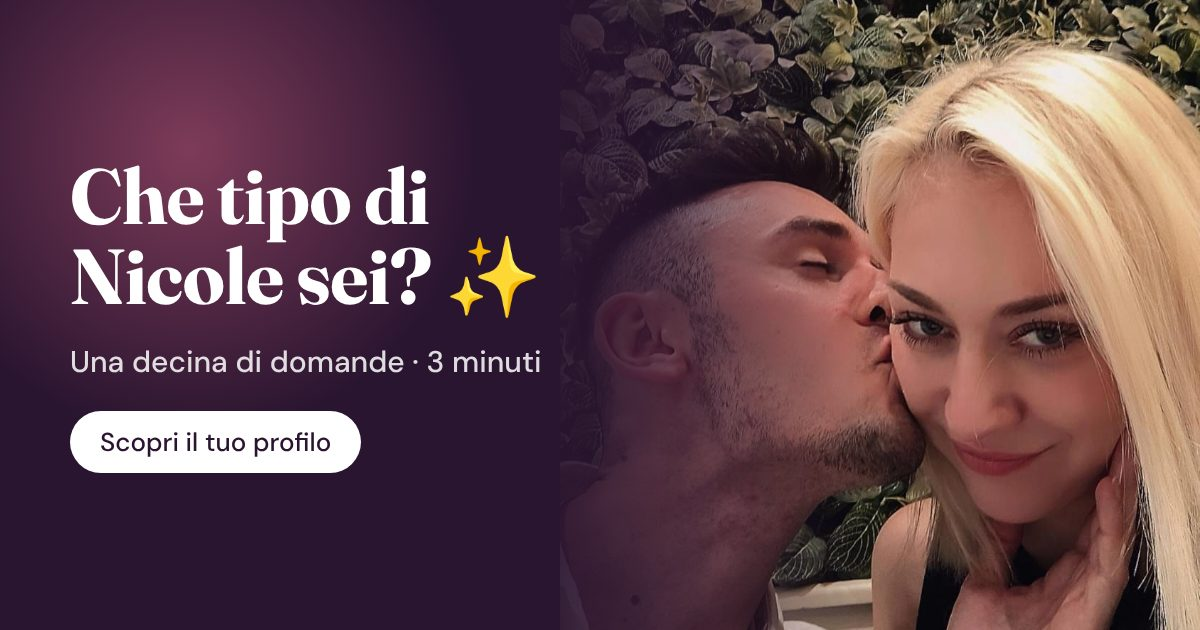
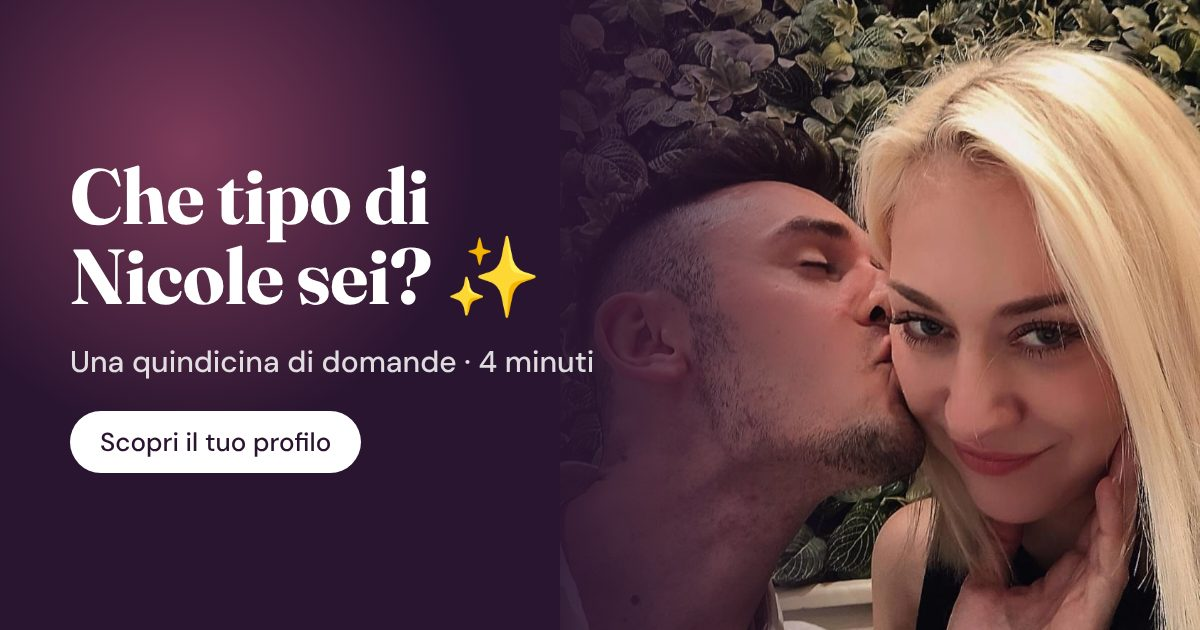
Version 2: new questions and result cards
Claude-Session: https://claude.ai/code/session_013eQ6ksMYpntbDkjgdCRouy

Changed region(s): [[0.1233, 0.5429, 0.4933, 0.6032]]

diff --git a/index.html b/index.html
@@ -5,11 +5,11 @@
 <meta name="viewport" content="width=device-width,initial-scale=1,viewport-fit=cover">
 <meta name="robots" content="noindex,nofollow">
 <title>Che tipo di Nicole sei?</title>
-<meta name="description" content="Una decina di domande, 3 minuti. Rispondi d'istinto e scopri il tuo profilo.">
+<meta name="description" content="Una quindicina di domande, 4 minuti. Rispondi d'istinto e scopri il tuo profilo.">
 <meta property="og:type" content="website">
 <meta property="og:url" content="https://dennickdj97.github.io/che-tipo-di-nicole/">
 <meta property="og:title" content="Che tipo di Nicole sei? ✨">
-<meta property="og:description" content="Una decina di domande, 3 minuti. Rispondi d'istinto e scopri il tuo profilo.">
+<meta property="og:description" content="Una quindicina di domande, 4 minuti. Rispondi d'istinto e scopri il tuo profilo.">
 <meta property="og:image" content="https://dennickdj97.github.io/che-tipo-di-nicole/anteprima.jpg">
 <meta property="og:image:width" content="1200">
 <meta property="og:image:height" content="630">
@@ -108,6 +108,14 @@ textarea:focus{border-color:var(--accent)}
 .trait{background:var(--chip);border-radius:14px;padding:12px 10px}
 .trait b{display:block;font-size:12px;text-transform:uppercase;letter-spacing:.06em;color:var(--accent);margin-bottom:4px}
 .trait span{font-size:15px;font-weight:500}
+.rcards{display:grid;gap:8px;margin:2px 0 22px;text-align:left}
+.rcard{display:flex;align-items:center;gap:12px;background:var(--chip);border-radius:14px;padding:11px 12px;animation:afterIn .5s ease both}
+.rcard .ri{font-size:22px;width:30px;text-align:center;flex:none}
+.rcard b{display:block;font-size:11px;text-transform:uppercase;letter-spacing:.07em;color:var(--accent);margin-bottom:2px}
+.rcard span{font-size:15px;font-weight:500;line-height:1.3}
+input.field{width:100%;border:1.5px solid var(--line);border-radius:14px;padding:13px 14px;font:16px "DM Sans",sans-serif;color:var(--ink);outline:none;background:#fff;margin-bottom:10px}
+input.field:focus{border-color:var(--accent)}
+.hint2{color:var(--muted);font-size:13px;margin:2px 0 4px}
 /* Gratta e scopri */
 .reveal{position:relative;border-radius:18px;padding:12px 0 4px;margin:6px 0 4px}
 canvas.scratch{position:absolute;inset:0;width:100%;height:100%;border-radius:18px;touch-action:none;cursor:pointer;transition:opacity .5s ease}
@@ -153,97 +161,121 @@ canvas.scratch{position:absolute;inset:0;width:100%;height:100%;border-radius:18
   // "show" = domanda che compare solo con certe risposte (A = risposte date finora).
   function has(A,id,i){ var v = A[id]; return Array.isArray(v) ? v.indexOf(i) >= 0 : v === i; }
   function first(A,id,i){ var v = A[id]; return Array.isArray(v) ? v[0] === i : v === i; }
+  // g = gruppo nel riepilogo (beauty, tempo, stile). k = parola breve per le schede del risultato.
   var Q = [
-    {id:12, kind:"choice", kicker:"Per scaldarci", title:"Il tuo superpotere da make-up artist?", label:"Superpotere",
+    {id:12, g:"beauty", kind:"choice", kicker:"💄 Beauty · per scaldarci", title:"Il tuo superpotere da make-up artist?", label:"Superpotere",
      opts:[
       {e:"✍", t:"Eyeliner perfetto al primo colpo", c:""},
       {e:"✨", t:"Una base che sembra pelle vera", c:""},
       {e:"💋", t:"Labbra da copertina", c:""},
       {e:"🪄", t:"Sopracciglia scolpite", c:""}]},
-    {id:1, kind:"choice", kicker:"Come stai", title:"In questo periodo ti senti più…", label:"Mi sento",
+    {id:1, g:"tempo", kind:"choice", kicker:"💭 Tu · come stai", title:"In questo periodo ti senti più…", label:"Mi sento",
      opts:[
       {e:"😮💨", t:"Stanca, con voglia di staccare", c:"zen"},
       {e:"⚡", t:"Carica, con voglia di novità", c:"explorer"},
       {e:"💼", t:"Con la testa sul lavoro", c:"glam"},
       {e:"🫶", t:"Con voglia di coccole", c:"cozy"}]},
-    {id:2, kind:"choice", kicker:"La tua settimana", title:"Il tuo momento preferito della settimana?", label:"Momento preferito",
+    {id:20, g:"beauty", kind:"choice", kicker:"💄 Beauty · in profumeria", title:"Entri in profumeria. Quale reparto ti chiama per primo?", label:"Reparto preferito",
+     opts:[
+      {e:"💄", t:"Il trucco", k:"trucco", c:"glam"},
+      {e:"🧴", t:"La skincare", k:"skincare", c:"zen"},
+      {e:"🌸", t:"I profumi", k:"profumi", c:"dreamer"},
+      {e:"💇♀", t:"I capelli", k:"capelli", c:"cozy"},
+      {e:"🖌", t:"Pennelli e accessori", k:"pennelli e accessori", c:"glam"}]},
+    {id:2, g:"tempo", kind:"choice", kicker:"🌿 Tempo libero", title:"Il tuo momento preferito della settimana?", label:"Momento preferito",
      opts:[
       {e:"🎬", t:"Un film al cinema", c:"dreamer"},
       {e:"🛁", t:"Il tempo solo per me", c:"cozy"},
       {e:"🚆", t:"Andare a scoprire qualcosa di nuovo", c:"explorer"},
       {e:"💄", t:"Creare un look", c:"glam"}]},
-    {id:3, kind:"choice", kicker:"Confessa", title:"Cosa non fai da troppo tempo?", label:"Da troppo non faccio",
+    {id:21, g:"beauty", kind:"choice", kicker:"💄 Beauty · prima prova", title:"Quando provi un make-up nuovo, cosa ti conquista?", label:"Nel make-up mi conquista",
+     opts:[
+      {e:"🤍", t:"La texture, come si sente sulla pelle", c:"cozy"},
+      {e:"🎨", t:"I colori che non ho mai provato", c:"explorer"},
+      {e:"🎁", t:"Un packaging bellissimo", c:"dreamer"},
+      {e:"⏱", t:"La tenuta da professionista", c:"glam"}]},
+    {id:3, g:"tempo", kind:"choice", kicker:"🌿 Tempo libero · confessa", title:"Cosa non fai da troppo tempo?", label:"Da troppo non faccio",
      opts:[
       {e:"🧖♀", t:"Una giornata di relax totale", c:"zen"},
       {e:"🚆", t:"Una gita fuori città", c:"explorer"},
       {e:"🍿", t:"Una serata al cinema", c:"dreamer"},
       {e:"🕯", t:"Una serata di coccole tutta per me", c:"cozy"}]},
-    {id:4, kind:"two", kicker:"Giornata libera", title:"Una giornata libera tutta per te. La passi…", label:"Giornata libera",
+    {id:22, g:"beauty", kind:"choice", kicker:"💄 Beauty · allo specchio", title:"Il tuo trucco di tutti i giorni?", label:"Trucco di tutti i giorni",
+     opts:[
+      {e:"🌤", t:"Pelle nuda e luminosa", k:"pelle luminosa", c:"zen"},
+      {e:"🌷", t:"Glam morbido", k:"glam morbido", c:"cozy"},
+      {e:"🖤", t:"Eyeliner deciso", k:"eyeliner deciso", c:"glam"},
+      {e:"💋", t:"Labbra protagoniste", k:"labbra protagoniste", c:"dreamer"}]},
+    {id:4, g:"tempo", kind:"two", kicker:"🌿 Tempo libero", title:"Una giornata libera tutta per te. La passi…", label:"Giornata libera",
      hint:"Tocca la prima scelta, poi la seconda",
      opts:[
-      {e:"♨", t:"Tra sauna e piscine calde", c:"zen"},
-      {e:"🏙", t:"In una città mai vista", c:"explorer"},
-      {e:"💄", t:"A provare trucchi nuovi", c:"glam"},
-      {e:"🍿", t:"Al cinema", c:"dreamer"},
-      {e:"⛷", t:"Sulla neve, tra piste e baita", c:"explorer"}]},
-    {id:5, kind:"choice", kicker:"Sii sincera", title:"Il tuo sfizio che rimandi sempre?", label:"Sfizio rimandato",
-     opts:[
-      {e:"💅", t:"Un trattamento tutto per me", s:"viso, mani, capelli…", c:"zen"},
-      {e:"👜", t:"Un accessorio bello che non mi compro mai", c:"glam"},
-      {e:"✈", t:"Un'esperienza da \"un giorno lo farò\"", c:"explorer"},
-      {e:"💄", t:"Un prodotto top che mi sembra esagerato", c:"glam"},
-      {e:"✍", t:"Altro", other:true, ph:"Scrivilo qui…", c:""}]},
-    {id:51, kind:"choice", kicker:"Dimmi di più", title:"Il trattamento dei sogni?", label:"Trattamento dei sogni",
-     show:function(A){ return A[5] === 0; },
-     opts:[
-      {e:"🧖♀", t:"Un trattamento viso da vera diva", c:"zen"},
-      {e:"💅", t:"Mani e piedi perfetti", c:"glam"},
-      {e:"💇♀", t:"Una giornata dal parrucchiere top", c:"glam"},
-      {e:"💆♀", t:"Un massaggio solo per me", c:"zen"}]},
-    {id:52, kind:"choice", kicker:"Dimmi di più", title:"L'accessorio che ti fa battere il cuore?", label:"Accessorio del cuore",
-     show:function(A){ return A[5] === 1; },
-     opts:[
-      {e:"👜", t:"Una borsa", c:"glam"},
-      {e:"🧣", t:"Una sciarpa o un foulard", c:"cozy"},
-      {e:"🕶", t:"Occhiali da sole", c:"explorer"},
-      {e:"🧢", t:"Un cappello o un berretto", c:"cozy"},
-      {e:"✍", t:"Altro", other:true, ph:"Scrivilo qui…", c:""}]},
-    {id:6, kind:"choice", kicker:"La tua nota", title:"Che profumo ti somiglia di più?", label:"Profumo",
+      {e:"♨", t:"Tra sauna e piscine calde", k:"relax", c:"zen"},
+      {e:"🏙", t:"In una città mai vista", k:"città nuove", c:"explorer"},
+      {e:"💄", t:"A provare trucchi nuovi", k:"make-up", c:"glam"},
+      {e:"🍿", t:"Al cinema", k:"cinema", c:"dreamer"},
+      {e:"⛷", t:"Sulla neve, tra piste e baita", k:"neve", c:"explorer"}]},
+    {id:6, g:"beauty", kind:"choice", kicker:"💄 Beauty · la tua nota", title:"Che profumo ti somiglia di più?", label:"Profumo",
      opts:[
       {e:"🌸", t:"Fiori delicati", c:""},
       {e:"🍊", t:"Agrumi solari", c:""},
       {e:"🪵", t:"Legni caldi e spezie", c:""},
       {e:"🌊", t:"Fresco e pulito", c:""}]},
-    {id:7, kind:"choice", kicker:"Piccoli drammi", title:"La piccola cosa che ti fa impazzire ogni giorno?", label:"Fastidio quotidiano",
+    {id:5, g:"stile", kind:"choice", kicker:"✨ Tu · piccole gioie", title:"Il piccolo lusso che ti migliora subito la giornata?", label:"Piccolo lusso",
      opts:[
-      {e:"🖌", t:"I pennelli che si rovinano", c:"glam"},
-      {e:"👛", t:"Nella borsa non trovo mai niente", c:""},
-      {e:"🥶", t:"Il freddo a mani e piedi", c:"cozy"},
-      {e:"🔋", t:"Il telefono che si scarica", c:""},
+      {e:"🧴", t:"Una crema che profuma di buono", c:"cozy"},
+      {e:"💄", t:"Un rossetto nuovo", c:"glam"},
+      {e:"🥐", t:"Colazione fuori con un caffè speciale", c:"explorer"},
+      {e:"💅", t:"Un trattamento tutto per me", s:"viso, mani, capelli…", c:"zen"},
       {e:"✍", t:"Altro", other:true, ph:"Scrivilo qui…", c:""}]},
-    {id:71, kind:"choice", kicker:"Tra noi MUA", title:"I pennelli che ti finiscono prima?", label:"Pennelli più usati",
+    {id:51, g:"stile", kind:"choice", kicker:"✨ Dimmi di più", title:"Il trattamento dei sogni?", label:"Trattamento dei sogni",
+     show:function(A){ return A[5] === 3; },
+     opts:[
+      {e:"🧖♀", t:"Un trattamento viso da vera diva", c:"zen"},
+      {e:"💅", t:"Mani e piedi perfetti", c:"glam"},
+      {e:"💇♀", t:"Una giornata dal parrucchiere top", c:"glam"},
+      {e:"💆♀", t:"Un massaggio solo per me", c:"zen"}]},
+    {id:23, g:"stile", kind:"choice", kicker:"✨ Stile · occhio al dettaglio", title:"Cosa rende speciale un oggetto per te?", label:"Dettaglio che conta",
+     opts:[
+      {e:"◻", t:"Un design pulito e minimal", k:"minimal", c:"zen"},
+      {e:"💛", t:"Materiali preziosi: oro, velluto", k:"materiali preziosi", c:"glam"},
+      {e:"🎀", t:"Un tocco romantico: fiori, fiocchi", k:"tocco romantico", c:"dreamer"},
+      {e:"🌈", t:"Qualcosa di originale e colorato", k:"originale e colorato", c:"explorer"}]},
+    {id:7, g:"stile", kind:"choice", kicker:"✨ Tu · piccoli drammi", title:"La piccola cosa che ti fa impazzire ogni giorno?", label:"Fastidio quotidiano",
+     opts:[
+      {e:"🖌", t:"I pennelli che si rovinano", m:"I pennelli rovinati ti tolgono il sonno", c:"glam"},
+      {e:"👛", t:"Nella borsa non trovo mai niente", m:"La tua borsa è un buco nero (e lo sai)", c:""},
+      {e:"🥶", t:"Il freddo a mani e piedi", m:"Sciarpa e calzini caldi, sempre", c:"cozy"},
+      {e:"🔋", t:"Il telefono che si scarica", m:"Il 10% di batteria è un'emergenza", c:""},
+      {e:"✍", t:"Altro", other:true, ph:"Scrivilo qui…", m:"Hai una mania tutta tua (e la custodisci)", c:""}]},
+    {id:71, g:"beauty", kind:"choice", kicker:"💄 Tra noi MUA", title:"I pennelli che ti finiscono prima?", label:"Pennelli più usati",
      show:function(A){ return A[7] === 0; },
      opts:[
       {e:"🫧", t:"Fondotinta e correttore", c:"glam"},
       {e:"👁", t:"Occhi e sfumature", c:"glam"},
       {e:"🌸", t:"Cipria, blush e bronzer", c:"glam"},
       {e:"💋", t:"Labbra e dettagli", c:"glam"}]},
-    {id:8, kind:"choice", kicker:"Il tuo inverno", title:"Domenica di gennaio, fuori fa freddo. Il piano perfetto?", label:"Domenica di gennaio",
+    {id:24, g:"tempo", kind:"choice", kicker:"🌿 Tempo libero · in viaggio", title:"Arrivi in una città nuova. Cosa cerchi per prima cosa?", label:"In una città nuova cerco",
+     opts:[
+      {e:"☕", t:"Il caffè più bello", k:"caffè belli", c:"cozy"},
+      {e:"🛍", t:"Boutique e negozietti", k:"boutique", c:"glam"},
+      {e:"🖼", t:"Musei e scorci", k:"musei e scorci", c:"dreamer"},
+      {e:"🌅", t:"Un posto con vista per rilassarmi", k:"posti con vista", c:"zen"}]},
+    {id:8, g:"tempo", kind:"choice", kicker:"🌿 Il tuo inverno", title:"Domenica di gennaio, fuori fa freddo. Il piano perfetto?", label:"Domenica di gennaio",
      opts:[
       {e:"♨", t:"Al caldo tra vapore e piscine", c:"zen"},
       {e:"⛷", t:"Sulle piste, tra neve e sole", c:"explorer"},
       {e:"🚆", t:"In treno verso una città nuova", c:"explorer"},
       {e:"🍿", t:"Al buio in sala, con i popcorn", c:"dreamer"},
       {e:"🕯", t:"A casa tra candele, bagno caldo e creme", c:"cozy"}]},
-    {id:82, kind:"choice", kicker:"Dimmi di più", title:"Il tuo relax perfetto?", label:"Relax perfetto",
+    {id:82, g:"tempo", kind:"choice", kicker:"🌿 Dimmi di più", title:"Il tuo relax perfetto?", label:"Relax perfetto",
      show:function(A){ return A[3] === 0 || first(A,4,0) || A[8] === 0; },
      opts:[
       {e:"🌊", t:"Piscine calde all'aperto, anche col freddo", c:"zen"},
       {e:"🔥", t:"Sauna e bagno turco", c:"zen"},
       {e:"🏔", t:"Con vista sulle montagne", c:"explorer"},
       {e:"🌃", t:"Di sera, con le luci della città", c:"dreamer"}]},
-    {id:10, kind:"text", kicker:"Ultima!", title:"Il prodotto o i prodotti beauty di cui non potresti mai fare a meno?", label:"Must-have beauty",
-     ph:"es. il tuo mascara del cuore, una crema, un pennello…"}
+    {id:10, g:"beauty", kind:"text2", kicker:"💄 Ultima! Tra noi MUA", title:"Il brand che non ti delude mai? E il prodotto che ricompreresti a occhi chiusi?", label:"Brand e prodotto del cuore",
+     f1:"Il brand…", f2:"Il prodotto…"}
   ];
 
   // Le domande visibili adesso, in base alle risposte date.
@@ -308,7 +340,7 @@ canvas.scratch{position:absolute;inset:0;width:100%;height:100%;border-radius:18
     if(step >= L.length) return false;
     var q = L[step];
     if(q.kind === "two") return Array.isArray(answers[q.id]) && answers[q.id].length === 2;
-    return q.kind === "text" || answers[q.id] != null;
+    return q.kind === "text" || q.kind === "text2" || answers[q.id] != null;
   }
 
   // Swipe verticale: su = avanti (se ha risposto), giù = indietro.
@@ -324,6 +356,10 @@ canvas.scratch{position:absolute;inset:0;width:100%;height:100%;border-radius:18
     if(dy < -60 && answered() && step < L.length){
       var oi = stage.querySelector(".other-row input");
       if(oi && step >= 0) answers[L[step].id + "_t"] = oi.value.trim();
+      if(step >= 0 && L[step].kind === "text2"){
+        var fs = stage.querySelectorAll("input.field");
+        answers[L[step].id] = {a:(fs[0]||{value:""}).value.trim(), b:(fs[1]||{value:""}).value.trim()};
+      }
       if(step >= 0 && L[step].kind === "text"){
         answers[L[step].id] = (stage.querySelector("textarea") || {value:""}).value.trim();
       }
@@ -352,6 +388,7 @@ canvas.scratch{position:absolute;inset:0;width:100%;height:100%;border-radius:18
     if(q.kind === "choice") renderChoice(card,q);
     else if(q.kind === "two") renderTwo(card,q);
     else if(q.kind === "stars") renderStars(card,q);
+    else if(q.kind === "text2") renderText2(card,q);
     else renderText(card,q);
     stage.appendChild(card);
     stage.appendChild(el("div","swipe-hint", step === 0 ? "Tocca una risposta · scorri in giù per tornare indietro" : ""));
@@ -362,7 +399,7 @@ canvas.scratch{position:absolute;inset:0;width:100%;height:100%;border-radius:18
     top.classList.remove("on");
     var d = el("section","intro");
     d.appendChild(el("h1",null,"Che tipo di Nicole sei? ✨"));
-    d.appendChild(el("p",null,"Una decina di domande, 3 minuti. Rispondi d'istinto, senza pensarci troppo: alla fine scopri il tuo profilo."));
+    d.appendChild(el("p",null,"Una quindicina di domande, 4 minuti. Rispondi d'istinto, senza pensarci troppo: alla fine scopri il tuo profilo."));
     var b = el("button","btn primary","Iniziamo 💫");
     b.onclick = function(){ go(0, "up"); };
     d.appendChild(b);
@@ -477,6 +514,23 @@ canvas.scratch{position:absolute;inset:0;width:100%;height:100%;border-radius:18
     card.appendChild(row);
   }
 
+  // Due campi brevi e facoltativi (brand + prodotto).
+  function renderText2(card,q){
+    var v = answers[q.id] || {};
+    var a = el("input"); a.type = "text"; a.maxLength = 80; a.placeholder = q.f1; a.value = v.a || ""; a.className = "field";
+    var b = el("input"); b.type = "text"; b.maxLength = 120; b.placeholder = q.f2; b.value = v.b || ""; b.className = "field";
+    card.appendChild(a); card.appendChild(b);
+    card.appendChild(el("p","hint2","Facoltativo: se non ti viene in mente, salta pure"));
+    var row = el("div","row");
+    var ok = el("button","btn primary","Scopri il tuo profilo ✨");
+    ok.style.background = "linear-gradient(135deg,var(--accent),#7b2d6b)"; ok.style.color = "#fff";
+    ok.onclick = function(){ answers[q.id] = {a:a.value.trim(), b:b.value.trim()}; next(); };
+    var skip = el("button","btn ghost","Salta");
+    skip.onclick = function(){ answers[q.id] = {a:"", b:""}; next(); };
+    row.appendChild(ok); row.appendChild(skip);
+    card.appendChild(row);
+  }
+
   function next(){ go(step + 1, "up"); }
   back.onclick = function(){ if(step >= 0) go(step - 1, "down"); };
 
@@ -525,12 +579,21 @@ canvas.scratch{position:absolute;inset:0;width:100%;height:100%;border-radius:18
     }
     if(q.kind === "two") return Array.isArray(v) && v.length ? v.map(function(i,k){ return (k+1) + ") " + q.opts[i].t; }).join("  ") : "—";
     if(q.kind === "stars") return v ? v + "/5" : "—";
+    if(q.kind === "text2"){ v = v || {}; return "brand: " + (v.a || "—") + " · prodotto: " + (v.b || "—"); }
     return v ? v : "—";
   }
 
+  // Riepilogo: prima il profilo (un gioco), poi le risposte vere, divise per tema.
+  var GROUPS = [["beauty","💄 Beauty"],["tempo","🌿 Tempo libero"],["stile","✨ Stile e piccole gioie"]];
   function message(name){
-    var lines = ["✨ Che tipo di Nicole sei? → " + name, "Mix: " + mixText(), ""];
-    V().forEach(function(q,i){ lines.push((i + 1) + ". " + q.label + ": " + answerText(q)); });
+    var lines = ["✨ Che tipo di Nicole sei?", "", "🎭 Il mio profilo (per gioco): " + name, mixText(), "", "📝 Le mie risposte"];
+    var L = V(), n = 0;
+    GROUPS.forEach(function(g){
+      var qs = L.filter(function(q){ return q.g === g[0]; });
+      if(!qs.length) return;
+      lines.push("", g[1]);
+      qs.forEach(function(q){ n++; lines.push(n + ". " + q.label + ": " + answerText(q)); });
+    });
     return lines.join("\n");
   }
 
@@ -566,16 +629,27 @@ canvas.scratch{position:absolute;inset:0;width:100%;height:100%;border-radius:18
       fills.push([f,o.pct]); bars.appendChild(row);
     });
     after.appendChild(bars);
-    var traits = el("div","traits");
-    [["La tua nota",6],["La tua domenica",8]].forEach(function(t){
-      var q = Q.filter(function(x){return x.id === t[1];})[0];
-      var box = el("div","trait");
-      box.appendChild(el("b",null,t[0]));
-      var v = answers[q.id];
-      box.appendChild(el("span",null, v == null ? "—" : q.opts[v].e + " " + q.opts[v].t));
-      traits.appendChild(box);
+    // Schede del risultato, tutte ricavate dalle risposte.
+    function pick(id){ var q = Q.filter(function(x){ return x.id === id; })[0]; var v = answers[id]; return (q && v != null && !Array.isArray(v)) ? q.opts[v] : null; }
+    var cards = [];
+    var sp = pick(12); if(sp) cards.push(["⚡","Il tuo superpotere", sp.t]);
+    var dom = pick(8); if(dom) cards.push(["📍","Ti riconosci in", dom.t]);
+    var ma = pick(7); if(ma) cards.push(["🙈","La tua piccola mania", ma.m]);
+    var lk = pick(22), dt = pick(23);
+    if(lk || dt) cards.push(["🪞","Il tuo stile", [lk && lk.k, dt && dt.k].filter(Boolean).join(", ").replace(/^./, function(c){ return c.toUpperCase(); })]);
+    var rp = pick(20), gl = answers[4], ci = pick(24);
+    var ints = [rp && rp.k, Array.isArray(gl) && gl.length ? Q.filter(function(x){return x.id === 4;})[0].opts[gl[0]].k : null, ci && ci.k].filter(Boolean);
+    ints = ints.filter(function(x,i){ return ints.indexOf(x) === i; });
+    if(ints.length) cards.push(["💫","I tuoi interessi", ints.join(" · ").replace(/^./, function(c){ return c.toUpperCase(); })]);
+    var nt = pick(6); if(nt) cards.push([nt.e,"La tua nota", nt.t]);
+    var cbox = el("div","rcards");
+    cards.forEach(function(c,i){
+      var r = el("div","rcard"); r.style.animationDelay = (0.15 + i*0.09) + "s";
+      r.appendChild(el("span","ri",c[0]));
+      var tx = el("div"); tx.appendChild(el("b",null,c[1])); tx.appendChild(el("span",null,c[2]));
+      r.appendChild(tx); cbox.appendChild(r);
     });
-    after.appendChild(traits);
+    after.appendChild(cbox);
 
     var msg = message(name);
     var send = el("button","btn accent","Manda il risultato a Nicholas 💬");

diff --git a/README.md b/README.md
@@ -1,3 +1,3 @@
 # Che tipo di Nicole sei? ✨
 
-Un piccolo quiz: Una decina di domande, 3 minuti.
+Un piccolo quiz: Una quindicina di domande, 4 minuti.
